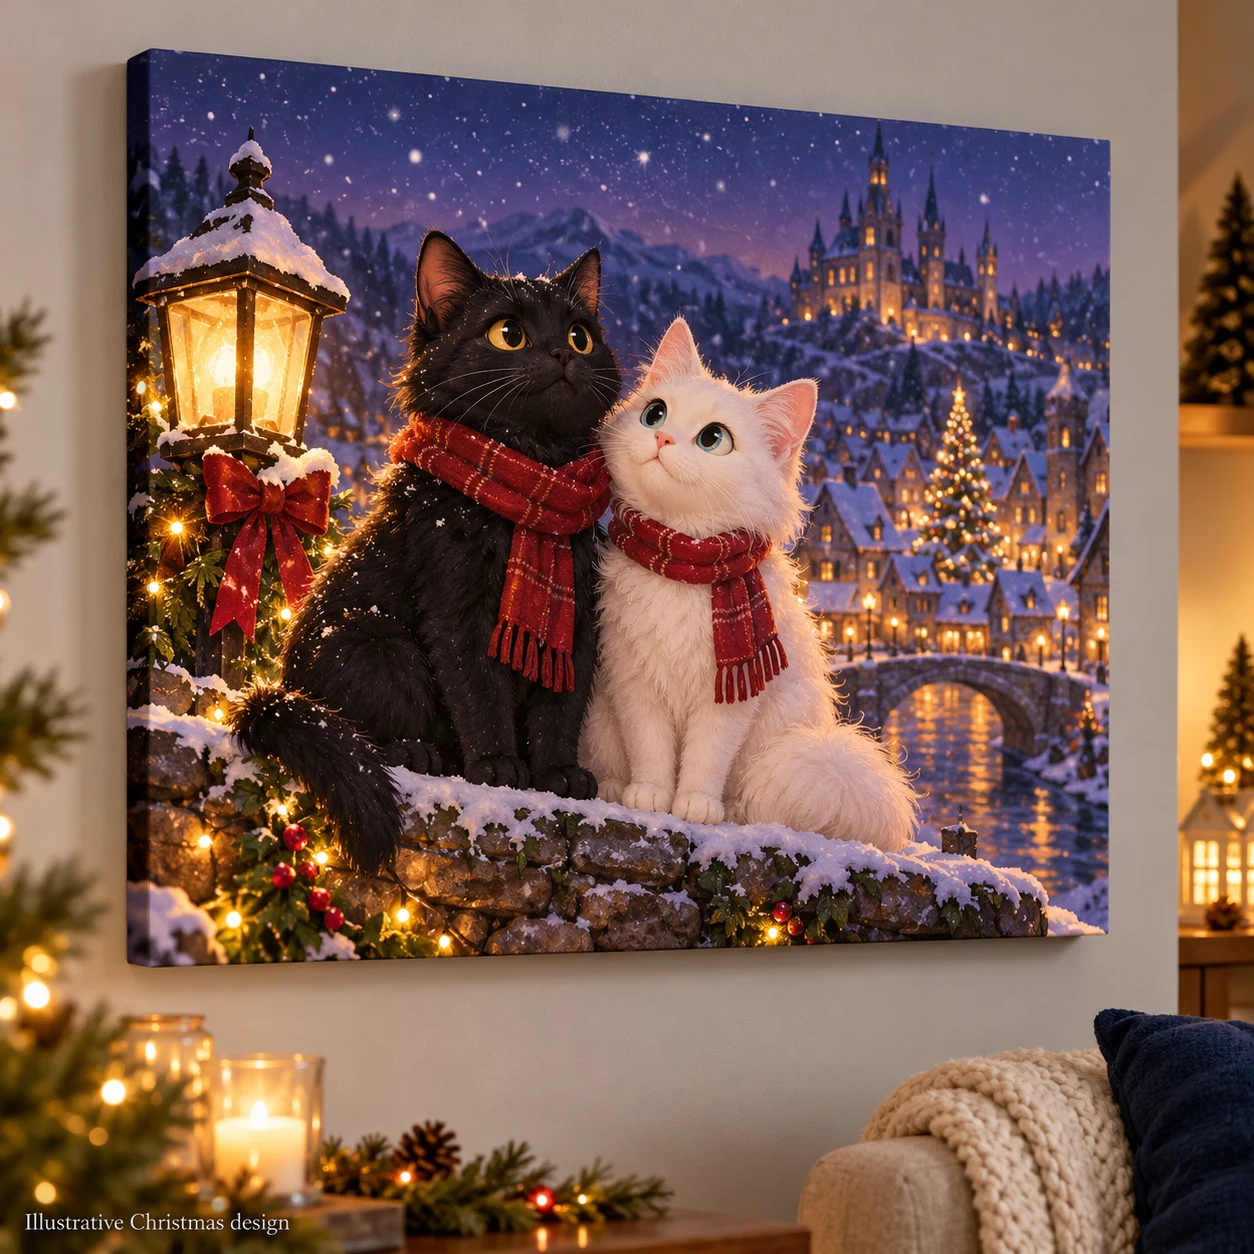
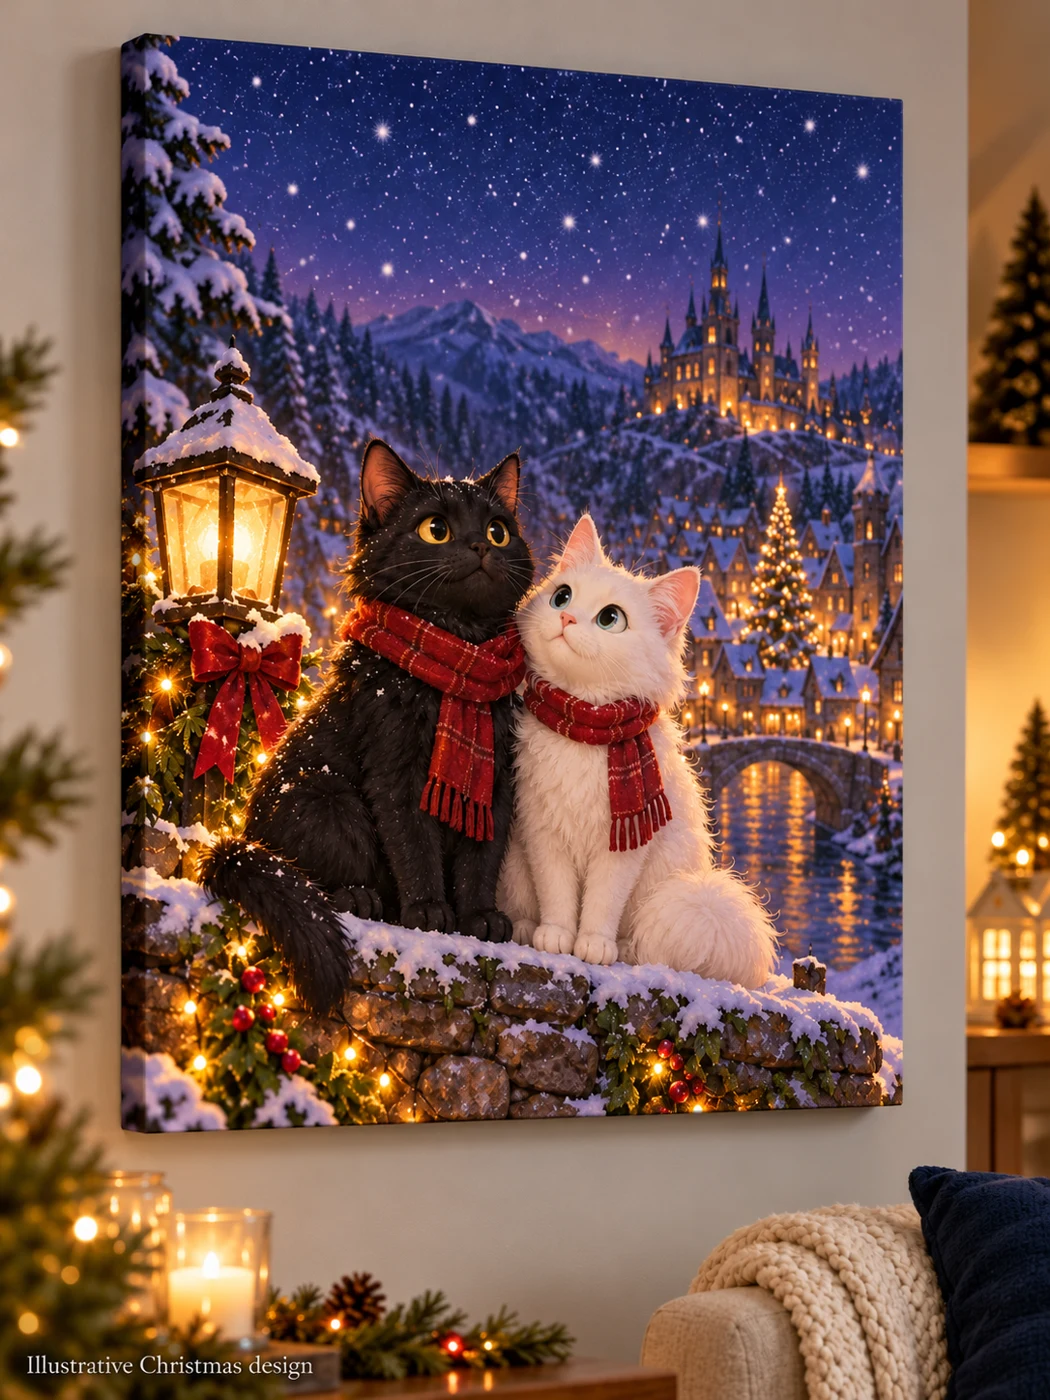
Align Christmas examples with supplier products and verify mobile cart

diff --git a/public/seasonal-products.js b/public/seasonal-products.js
@@ -91,7 +91,7 @@ export async function renderSeasonalProducts(campaign){
    if(offer&&physicalChristmas)link.append(node('span','season-shop-sale','10% OFF'));
    else if(campaign.offer&&!christmas)link.append(node('span','season-shop-sale',campaign.offer.percent+'% OFF'));
    const body=node('div','season-shop-body');
-   body.append(node('small','',physicalChristmas?'YOUR PHOTO · HOLIDAY MAGIC':item.tier==='digital'?'DIGITAL ART':'MADE WITH YOUR PHOTO'));
+   body.append(node('small','',physicalChristmas?'YOUR PHOTO · ILLUSTRATIVE EXAMPLE':item.tier==='digital'?'DIGITAL ART':'MADE WITH YOUR PHOTO'));
    body.append(node('h3','',item.name));
    body.append(node('p','',physicalChristmas?CHRISTMAS_PITCH[item.name]||item.pitch:item.pitch));
    if(physicalChristmas)body.append(node('div','season-christmas-selected','✓ Christmas style preselected · preview before checkout'));

diff --git a/public/seasonal-specials-v163.js b/public/seasonal-specials-v163.js
@@ -1,3 +1,5 @@
+import {initialize as initializeBasket} from './basket.js?v=3';
+initializeBasket().catch(()=>{});
 import {renderSeasonalProducts} from './seasonal-products.js?v=171';
 import {christmasCampaign} from './christmas-feature.js?v=1';
 import {seasonalSpotlight,upcomingGiftEvents,daysToEvent,eventDateLabel} from './season-calendar.js?v=166';

diff --git a/docs/ASTRA-SESSION-CHRISTMAS-FLOW-2026-11-01.md b/docs/ASTRA-SESSION-CHRISTMAS-FLOW-2026-11-01.md
@@ -15,3 +15,38 @@ Replaced repeated hero/inset construction with one product image per card. Four 
 
 ### Owner-authorized complete image release
 Owner authorized all remaining images and uploading the website fixes. Added 16 distinct illustrative Christmas product images encoded as WebP. Images are illustrative, not supplier proofs or premade inventory. No customer photos or production orders used. Mobile header uses brand and cart with 44px target. All 798 offline tests and Worker dry-run pass. Managed preview unavailable (wrangler not found by preview daemon); Chromium/WebKit CI required before merge. Git push lacks credentials; connected GitHub API used instead. One zero-byte converted asset was caught by image validation and regenerated. Baseline 0bfc5cd5fc6c54586efad4fb10bb810890acba19; local implementation b656c0b plus corrected asset. Rollback: revert focused PR. Deployment unverified at checkpoint.
+
+### Product fidelity review requested during release
+Held PR121 in draft after owner asked to check every illustration against delivered merchandise. Read current Shopify catalog and source FULFILLMENT, recommendedCheckoutDesign and apparel-finish.js. Identified actual mismatches rather than claiming generated images were supplier proofs.
+
+| Product | Verified mapping / visual decision |
+|---|---|
+| Hoodie | Cotton Heritage M2580 black, Printful380; revise hard rectangle to soft-edged centered front print, flat drawcord/pouch construction. |
+| T-shirt | Bella+Canvas3001 black, Printful71; revise hard rectangle to soft-edged front print. |
+| Tote | Printful84/4533, 15x15 polyester body/black handles; replace beige canvas inset-print illustration. |
+| Tumbler | Printful909/23470, tapered20oz; replace skinny cylinder with 6.77in height, 3.39in top/2.83in bottom, clear press-in lid. |
+| Framed poster | Printful2 black frame, available8x10/12x16/18x24; revise square example to portrait8x10. |
+| Canvas | Printful3, 12x16/18x24/24x36; revise square example to portrait12x16. |
+| Journal | Printful867/22658 matte hardcover5.75x8; reduce glossy appearance. |
+| Poster | Printful1, rectangular paper print; existing tall portrait illustration compatible with24x36 option. |
+| Mug | Printful19 white glossy11/15oz; white handle/interior and printed exterior broadly consistent. |
+| Pillow | Printful83 square pillow; image broadly consistent, production code prints same art front/back. |
+| Blanket | Printful395 polyester throw50x60/60x80; retained fleece illustration, not a knit/embroidered product. |
+| Puzzle | Rectangular252/520piece puzzle; retained illustrative tabletop view. |
+| Tough case | Printful601 supported iPhone models; glossy protective case with camera opening; variant remains chosen during preview. |
+| Sticker sheet | Printful505/12917; six full-picture stickers in2x3 layout; matching-count example only, not an exact provider proof. |
+| Magnet pack | Printful656/16366 quantity3; retained three square illustrated magnets. |
+| Coaster pack | Printful611/15662 quantity4; retained four square cork-backed examples. |
+
+Primary supplier sources checked:
+- https://www.printful.com/custom/mens/hoodies/unisex-premium-hoodie-cotton-heritage-m2580
+- https://www.printful.com/custom/mens/t-shirts/unisex-staple-t-shirt-bella-canvas-3001
+- https://www.printful.com/custom/accessories/all/all-over-print-tote
+- https://www.printful.com/custom/drinkware/personalized/tapered-stainless-steel-tumbler-20oz
+- https://www.printful.com/custom/stationery/notebooks/hardcover-journal-matte
+- https://www.printful.com/custom/blankets/personalized/throw
+- https://www.printful.com/custom/drinkware/personalized/cork-back-coaster
+
+Limit: this is catalog/construction/placement consistency, not physical sample inspection or a provider-generated proof of the fictional artwork. Card copy labels every example illustrative. Never substitute these product photographs as print files or ready-made inventory.
+
+CI41326035607 passed security, offline, app-channel, basket and seasonal checks but Christmas image test had an incorrect selector (frame versus framed-poster). Corrected the test to locate the actual image source, preserving all16 image-decode checks. Added enabled-cart header geometry checks. No merge/deployment at this checkpoint.
